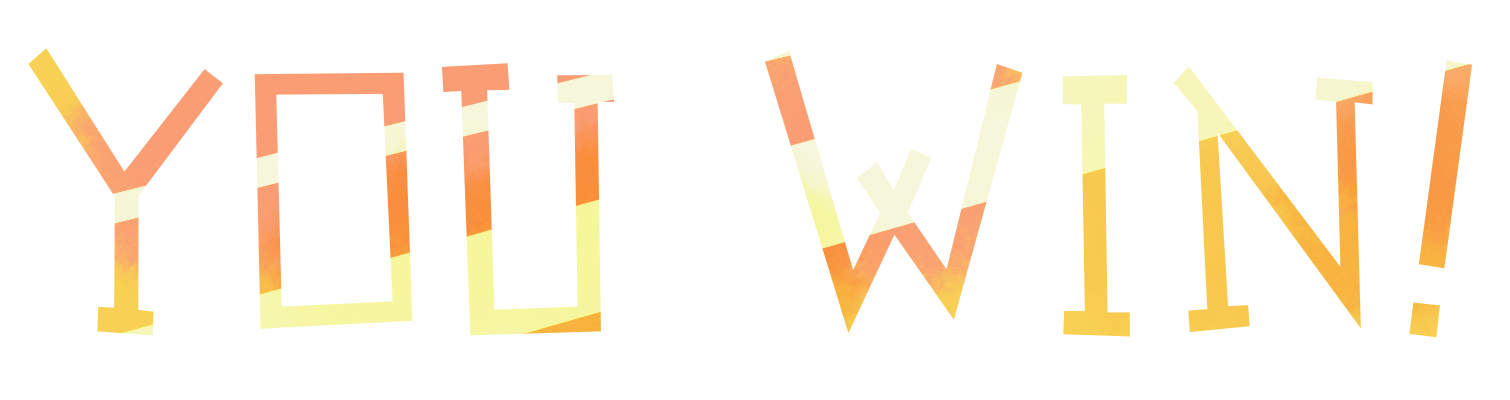
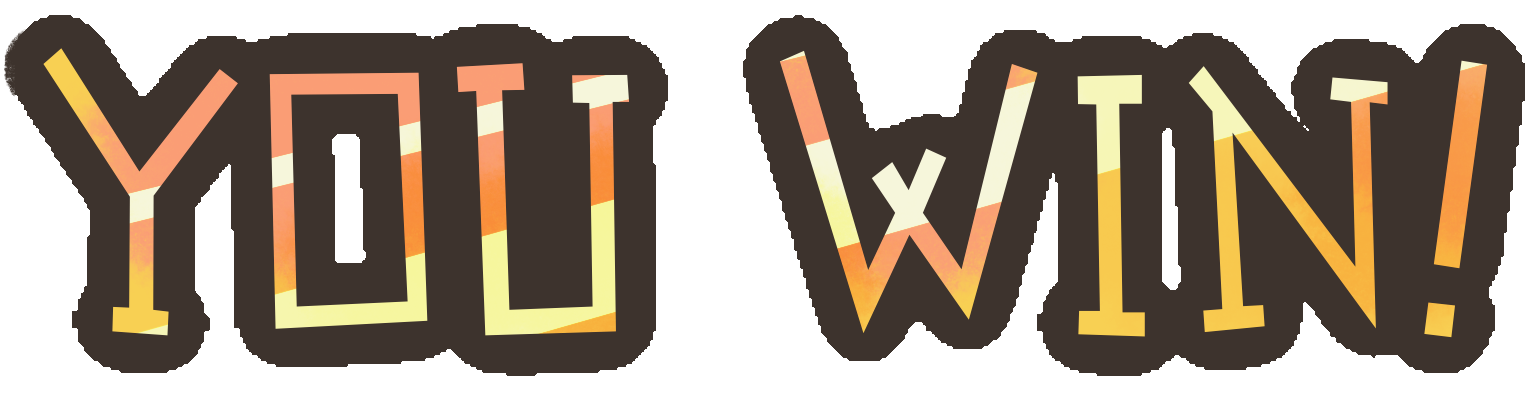
fixed flyups

diff --git a/components/GameWindow.tsx b/components/GameWindow.tsx
@@ -70,7 +70,7 @@ function sketch(p5: P5CanvasInstance<MySketchProps>) {
 
     let getReadyImage = p5.loadImage("/get_ready.png");
     let goImage = p5.loadImage("/go.png");
-    let winImage = p5.loadImage("/win.png");
+    let winImage = p5.loadImage("/you_win.png");
     
     p5.setup = () => {
         p5.createCanvas(1000, 600)
@@ -245,7 +245,7 @@ function sketch(p5: P5CanvasInstance<MySketchProps>) {
     if (gameDone) {
         if (isWinner) {
             p5.rotate(p5.sin(p5.frameCount / 15) * 0.05);
-            p5.image(winImage, 0,0, 400, 800);
+            p5.image(winImage, 0,0, 800, 400);
         }
     }
 
@@ -276,5 +276,5 @@ function sketch(p5: P5CanvasInstance<MySketchProps>) {
 
 export default function Page(props: ComponentProps) {
 
-  return <NextReactP5Wrapper sketch={sketch} letterToSign={props.letterToSign} success={props.success} gameStarted={props.gameStarted} gameDone={props.gameDone} isWinner={props.isWinner} />;
+  return <NextReactP5Wrapper sketch={sketch} letterToSign={props.letterToSign} success={props.success} gameStarted={props.gameStarted} gameDone={props.gameDone} isWinner={true} />;
 }

diff --git a/pages/game.tsx b/pages/game.tsx
@@ -229,7 +229,7 @@ export default function Game() {
             }, 6500);
         }
 
-        if (timeLeft < 60)
+        if (timeLeft < 2)
         {
             setGameDone(true);
             if (player1score > player2score) {
@@ -321,8 +321,8 @@ export default function Game() {
                 <div className="text-xl mt-4">PLAYER 1 SCORE: {player1score}</div>
                 <div className="text-xl">PLAYER 2 SCORE: {player2score}</div>
 
-                <p>{JSON.stringify(isWinner)}</p>
-          <p>{JSON.stringify(gameDone)}</p>
+                {/* <p>{JSON.stringify(isWinner)}</p> */}
+          {/* <p>{JSON.stringify(gameDone)}</p> */}
             
                 {/* <div className="text-xl mt-4">{JSON.stringify(calculateAverage(player1confidence, letters))}</div>
                 <div className="text-xl">{JSON.stringify(calculateAverage(player2confidence, letters))}</div> */}
